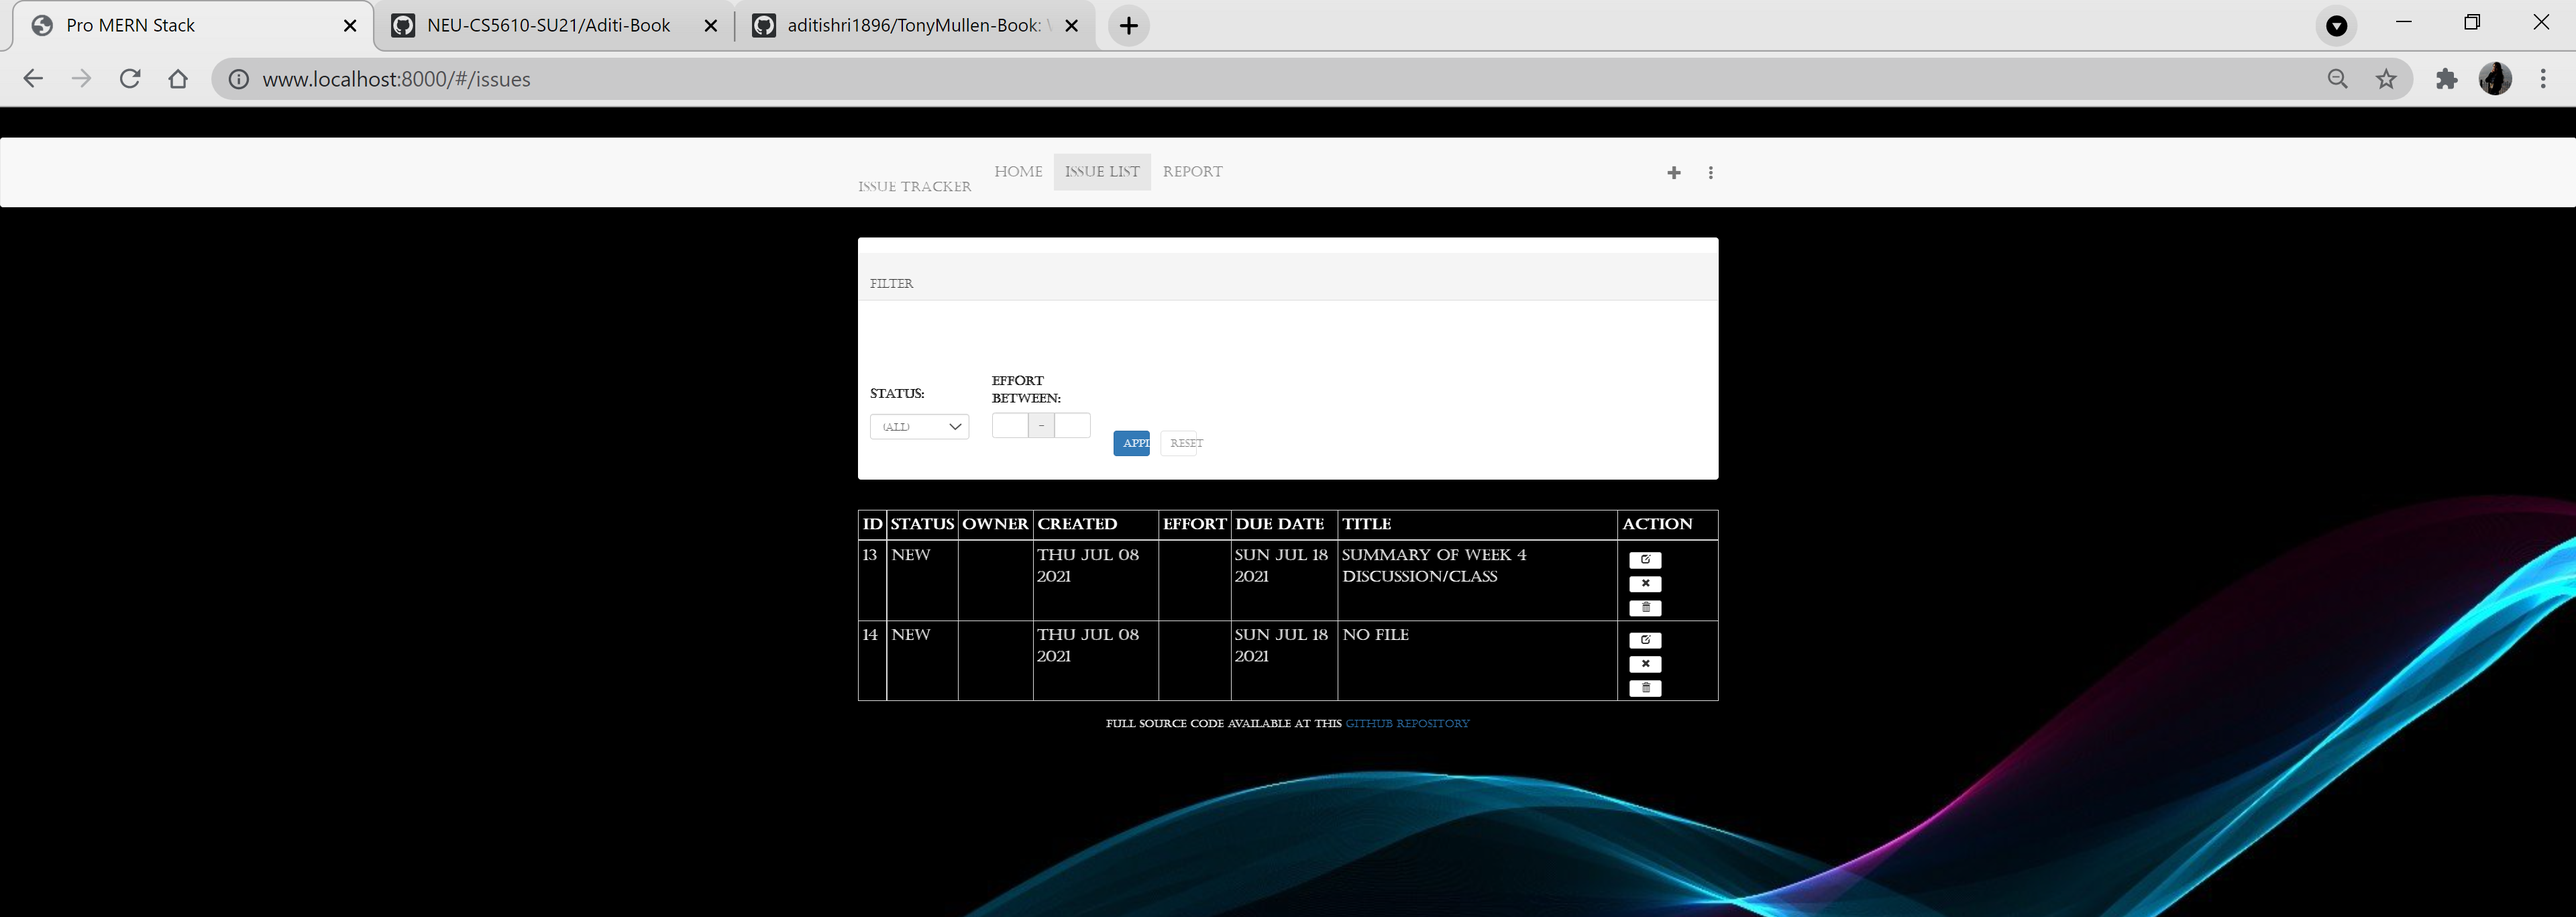
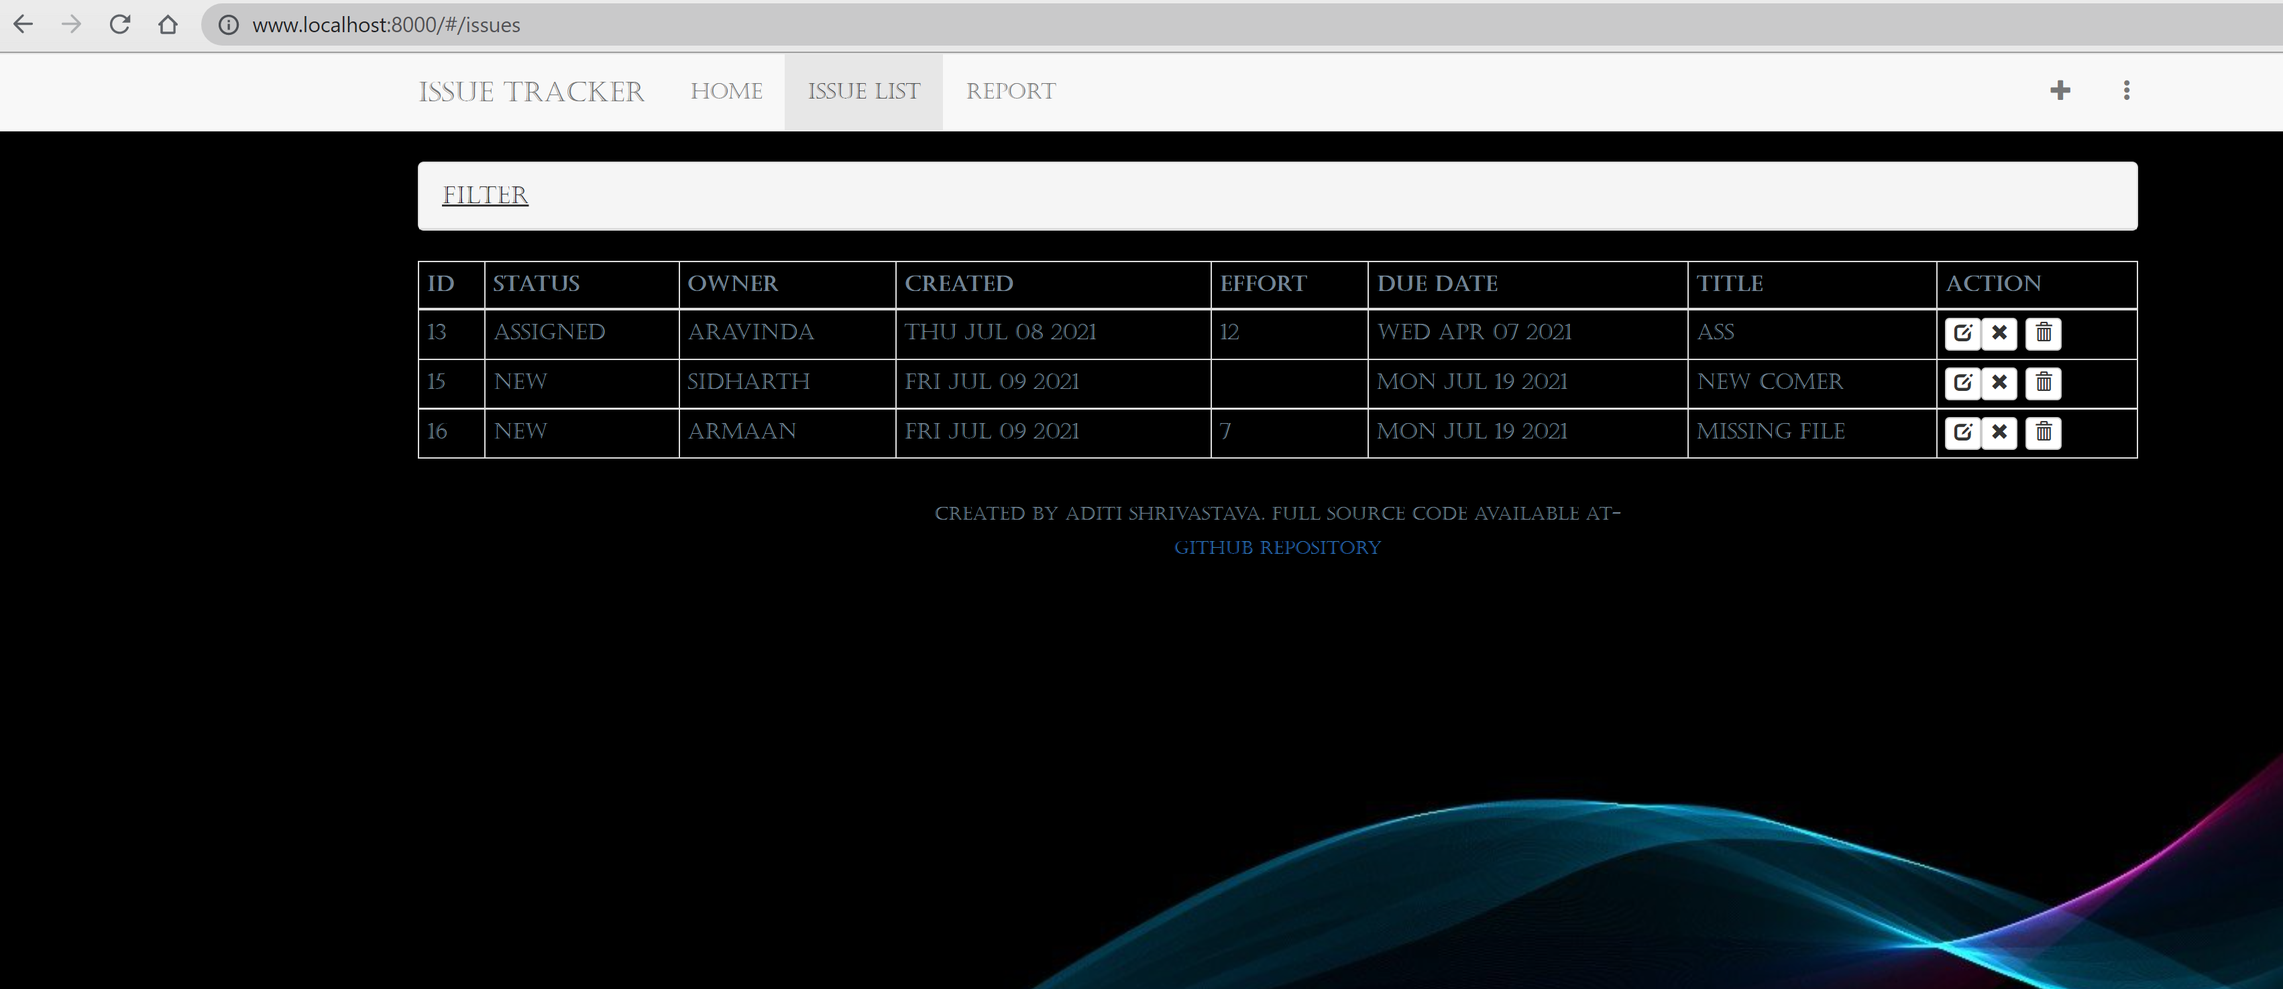
Updating Ui

diff --git a/ui/public/index.html b/ui/public/index.html
@@ -1,148 +1,27 @@
-<!DOCTYPE HTML>
+<!DOCTYPE html>
 <html>
-<head>
- <meta charset="utf-8">
- <title>Pro MERN Stack</title>
- <link rel="stylesheet" href="/bootstrap/css/bootstrap.min.css" >
- <meta name="viewport" content="width=device-width, initial-scale=1.0">
- <script src="/env.js"></script>
+    <head>
+        <style>
+            table.table-hover tr {cursor: pointer;}
+            body{
+  background-image: url('new.jpg');}
+div{
+  color: lightslategrey;
+  font-family:Castellar;
+  font-weight: 200;
+}
+h1{font-family:Castellar ;color:yellow;font-size:300%;text-align:center;font-style: unset;}
 
- <style>
-
-    h1{font-family:Castellar ;color:yellow;font-size:300%;text-align:center;font-style: unset;}
-    div{font-family:Castellar;color:white;font-size:110%; padding-top: 20px;}
-    th {
-  /*background-color: lightyellow;*/
-  color: white;
-}
-.old{
-  color: white;
-}
-form {
-    margin-top: 2%;
-   
-}
-.btnnew{
-  margin-top: 100%;
-}
-label {
-    display: inline-block;
-    max-width: 100%;
-    margin-bottom: 5px;
-    /* font-weight: 600; */
-    color: black;
-    font-size: 50%;
-
-}
-.word{
-  color: black;
-}
-table.table-hover tr {cursor: pointer;}
-.table>tbody>tr.active>td, .table>tbody>tr.active>th, .table>tbody>tr>td.active, .table>tbody>tr>th.active, .table>tfoot>tr.active>td, .table>tfoot>tr.active>th, .table>tfoot>tr>td.active, .table>tfoot>tr>th.active, .table>thead>tr.active>td, .table>thead>tr.active>th, .table>thead>tr>td.active, .table>thead>tr>th.active {
-    background-color: #666699;
-}
-.panel {
-    margin-bottom: 20px;
-    border: 1px solid transparent;
-    color: transparent;
-    border-radius: 4px;
-    -webkit-box-shadow: 0 1px 1px rgb(0 0 0 / 5%);
-    box-shadow: 0 1px 1px rgb(0 0 0 / 5%);
-}
-.filter{color: black;}
-
-.panel-title a {display: block; width: 100%; cursor: pointer;}
-.try{
-  color: white;
-  font-size:large
-}
-input[type=text], select {
-  width: 55%;
-  padding: 12px 20px;
-  margin: 8px 0;
-  color: black;
-  display: inline-block;
-  border: 1px solid #ccc;
-  border-radius: 4px;
-  box-sizing: border-box;
-}
-.panel-body {
-    padding: 15px;
-    margin-right: 15%;
-}
-button {
-    width: 35%;
-    height: 30%;
-    background-color: yellowgreen;
-    color: white;
-    padding: 14px 20px;
-    margin: 10px;
-    border: none;
-    border-radius: 4px;
-    cursor: pointer;
-    /* display: inline-grid; */
-  
-}
-
-.form-control-static {
-    min-height: 25;
-   padding-top: 7px; 
-    padding-bottom: 7px;
-  
-    color: black;
-}
-.trial{
-  width: 50%;
-  background-color: yellowgreen;
-  color: white;
-  padding: 5px 5px;
-  margin: 5px 0;
-  border: none;
-  border-radius: 4px;
-  cursor: pointer;
-}
-.now{
-  width: 10%;
-  background-color: yellowgreen;
-  color: white;
-  padding: 14px 20px;
-  margin: 8px 0;
-  border: none;
-  border-radius: 4px;
-  cursor: pointer;
-}
-
-.now1{
-  width: 16%;
-  color: black;
-  padding: 14px 20px;
-  margin: 8px 0;
-  border: none;
-  border-radius: 4px;
-  cursor: pointer;
-}
-.now2{
-  width: 3%;
-  color: black;
-  padding: 14px 8px;
-  margin: 8px 0;
-  border: black;
-  border-radius: 4px;
-  
-}
-
-body{
-  background-image: url('new.jpg');
-
-  background-repeat: no-repeat;
-  background-attachment: fixed;  
-  background-size: cover;}
-  h{padding-top: 100%;}
-    </style>
-</head>
-<body>
- <div id="content"></div>
- <script src="/app.bundle.js"></script>
- <script src="/vendor.bundle.js"></script>
-</body>
+      
+            .panel-title a {display: block; width: 100%; cursor: pointer;}
+        </style>
+        <link rel="stylesheet" href="/bootstrap/css/bootstrap.min.css">
+        <meta name="viewport" content="width=device-width, initial-scale=1.0">
+    </head>
+    <body>
+        <div id="content"></div>
+        <script src="/env.js"></script>
+        <script src="/vendor.bundle.js"></script>
+        <script src="/app.bundle.js"></script>
+    </body>
 </html>

diff --git a/ui/src/Page.jsx b/ui/src/Page.jsx
@@ -1,3 +1,4 @@
+/* eslint-disable react/jsx-no-target-blank */
 /* eslint-disable no-unused-vars */
 import React from 'react';
 import {
@@ -42,10 +43,10 @@ function Footer() {
   return (
     <small>
       <p className="text-center">
-        <h3>Created by Aditi Shrivastava. Full source code available at-</h3>
+        <h6>Created by Aditi Shrivastava. Full source code available at-</h6>
         {' '}
         <a href="https://github.ccs.neu.edu/NEU-CS5610-SU21/Aditi-Book" target="_blank">
-          <h3>GitHub repository</h3>
+          <h6>GitHub repository</h6>
         </a>
       </p>
     </small>

diff --git a/README.md b/README.md
@@ -8,13 +8,19 @@ Through this chapter I learned the concept of bootstrap and React-Bootstrap . I 
 
 ### Chap11-Result SnapShot.
 Main page view
-![](/ReadMeImages/Chap11_2.PNG)
+![](/ReadMeImages/Chap11_ 1.PNG)
+
+Filter panel
+![](/ReadMeImages/Chap11_ 2.PNG)
 
 Edit form
 ![](/ReadMeImages/Chap11_4.PNG)
 
 Modal issue dialogue box
 ![](/ReadMeImages/Chap11_3.PNG)
+
+Alert
+![](/ReadMeImages/Chap11_5.PNG)
 
 ### Problems faced in this chapter
 -Setting up mklink in the ui directory.
